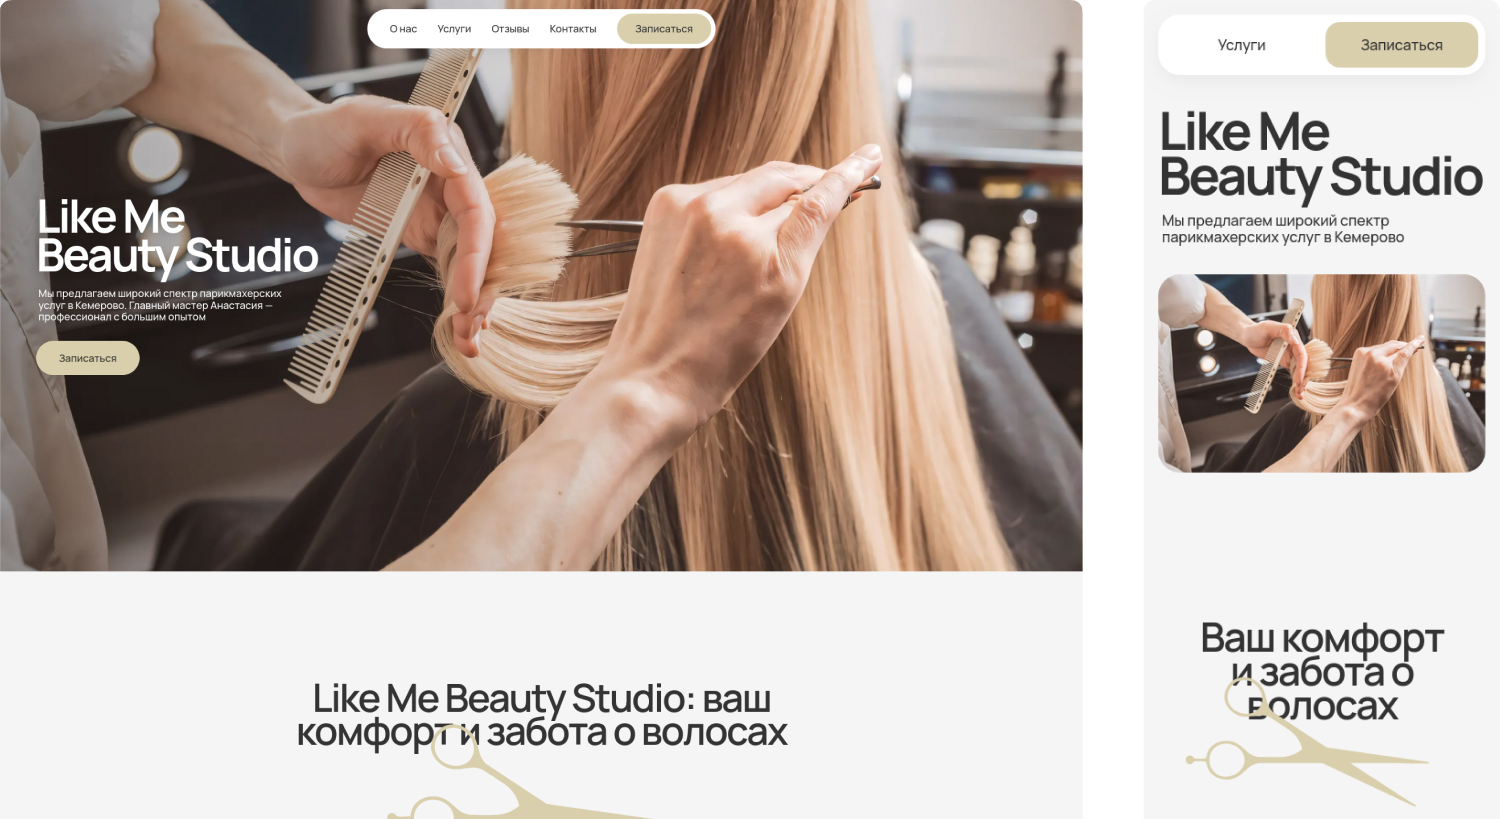
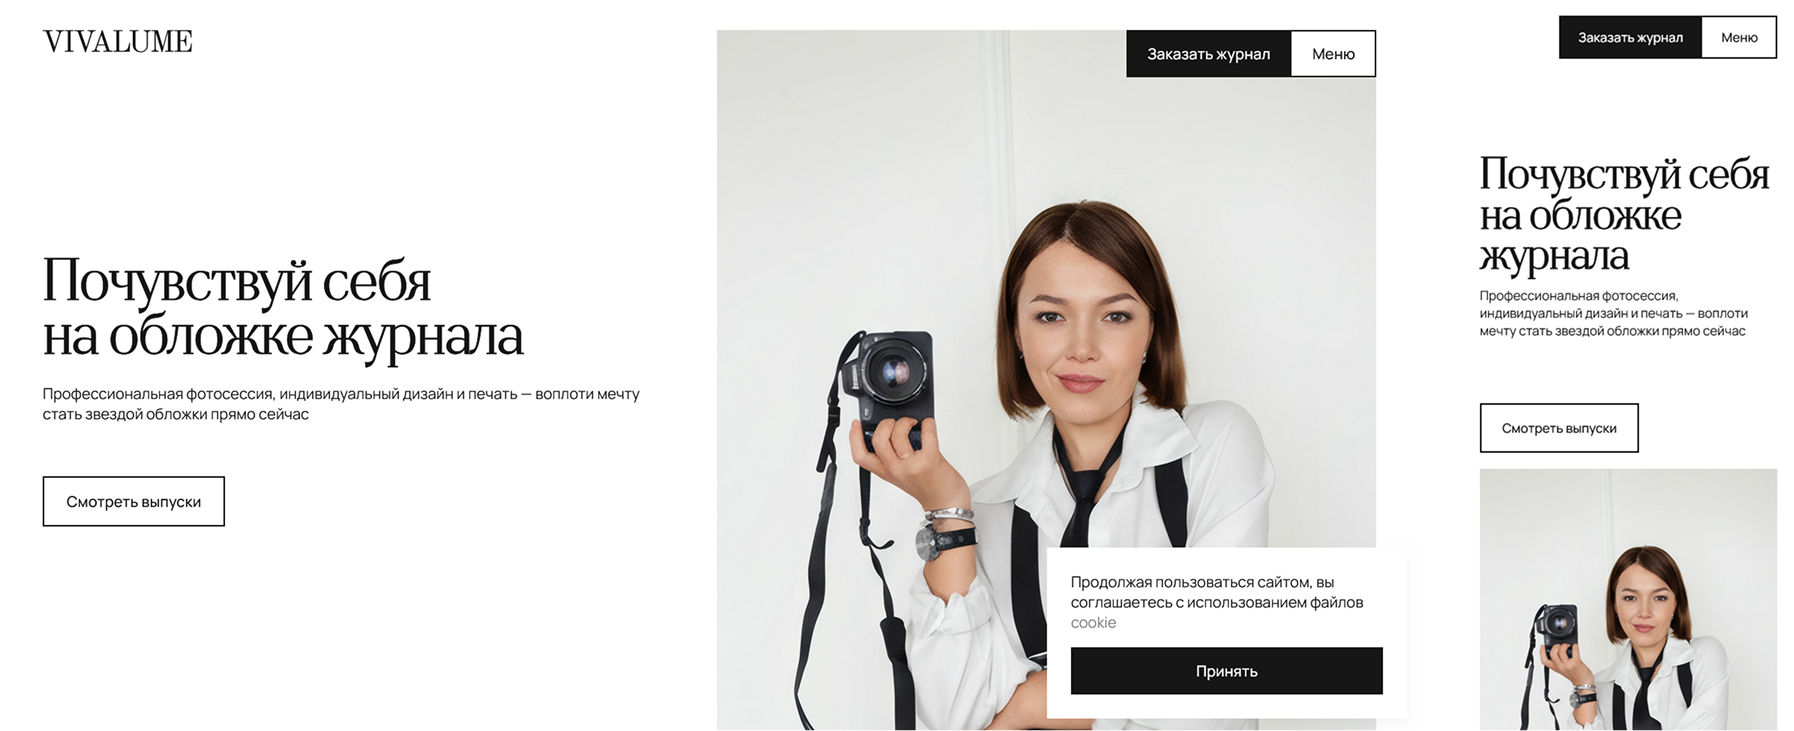
21

diff --git a/templates/index.html b/templates/index.html
@@ -146,15 +146,15 @@
         </div> -->
       </div>
 
-      <div class="cases gsap-4">
-        <div class="case wide" data-cover="{{ url_for('static', filename='img/cases/1/1.png') }}" data-name="Mutek"
-          data-description="Сайт фестиваля digital-креатива в Мексико" data-href="#">
+      <div class="cases gsap-4" id="cases">
+        <div class="case wide" data-cover="{{ url_for('static', filename='img/cases/1/1.png') }}" data-name="VIVALUME"
+          data-description="Сайт для фото-журнала" data-href="#">
         </div>
-        <div class="case left" data-cover="{{ url_for('static', filename='img/cases/2/1.png') }}" data-name="Mutek"
-          data-description="Сайт фестиваля digital-креатива в Мексико" data-href="#">
+        <div class="case left" data-cover="{{ url_for('static', filename='img/cases/2/1.png') }}" data-name="Like Me"
+          data-description="Сайт для салона красоты" data-href="#">
         </div>
-        <div class="case right" data-cover="{{ url_for('static', filename='img/cases/2/1.png') }}" data-name="Mutek"
-          data-description="Сайт фестиваля digital-креатива в Мексико" data-href="#">
+        <div class="case right" data-cover="{{ url_for('static', filename='img/cases/3/1.png') }}" data-name="Бодрит!"
+          data-description="Дизайн приложения для сети кофеен" data-href="#">
         </div>
       </div>
 
@@ -217,11 +217,11 @@
             <div class="res-r">
               <div class="res-rc">
                 <h1 class="r">~300</h1>
-                <p>Посетители<br>в месяц</p>
+                <p>Посетителей<br>в месяц</p>
               </div>
               <div class="res-rc">
                 <h1 class="r">~70</h1>
-                <p>Переходы<br>запись</p>
+                <p>Переходов<br>в запись</p>
               </div>
             </div>
           </div>
@@ -390,8 +390,7 @@
             <div class="hiw-d">
               <h3>Исследование</h3>
               <p class="gd">Проводим анализ вашей компании, изучаем нишу, конкурентов и целевую аудиторию конкурентов и
-                целевую
-                аудиторию аудиторию конкурентов и целевую аудиторию</p>
+                целевую аудиторию аудиторию конкурентов и целевую аудиторию</p>
             </div>
           </div>
           <div class="hiw-card">
@@ -401,10 +400,9 @@
                 fill="var(--bg-gl)" />
             </svg>
             <div class="hiw-d">
-              <h3>Исследование</h3>
-              <p class="gd">Проводим анализ вашей компании, изучаем нишу, конкурентов и целевую аудиторию конкурентов и
-                целевую
-                аудиторию аудиторию конкурентов и целевую аудиторию</p>
+              <h3>Дизайн интерфейса</h3>
+              <p class="gd">Разрабатываем уникальный визуальный стиль, который отражает характер вашего бренда. Создаем
+                интерфейс с фокусом на удобство пользователей</p>
             </div>
           </div>
           <div class="hiw-card">
@@ -414,10 +412,9 @@
                 fill="var(--bg-gl)" />
             </svg>
             <div class="hiw-d">
-              <h3>Исследование</h3>
-              <p class="gd">Проводим анализ вашей компании, изучаем нишу, конкурентов и целевую аудиторию конкурентов и
-                целевую
-                аудиторию аудиторию конкурентов и целевую аудиторию</p>
+              <h3>Разработка</h3>
+              <p class="gd">Превращаем дизайн в полноценный рабочий продукт. Используем современный стек технологий для
+                создания быстрого и надежного решения</p>
             </div>
           </div>
           <div class="hiw-card">
@@ -427,16 +424,15 @@
                 fill="var(--bg-gl)" />
             </svg>
             <div class="hiw-d">
-              <h3>Исследование</h3>
-              <p class="gd">Проводим анализ вашей компании, изучаем нишу, конкурентов и целевую аудиторию конкурентов и
-                целевую
-                аудиторию аудиторию конкурентов и целевую аудиторию</p>
+              <h3>Запуск и сопровождение</h3>
+              <p class="gd">Проводим тестирование, устраняем найденные недочеты и оптимизируем производительность,
+                устраняем найденные недочеты</p>
             </div>
           </div>
         </div>
       </div>
     </div>
-    <div class="main-c2">
+    <div class="main-c2" id="reviews">
       <div class="rev">
         <div class="block-h">
           <h4>Отзывы</h4>
@@ -452,12 +448,12 @@
                   <p>
                     Нужен был сайт для салона красоты — что-то простое, но стильное. Ребята сделали конфетку! Клиенты
                     записываются сами, всё видно в телефоне, а в админ-панели удобно настраивать расписание. Больше
-                    никаких блокнотов и путаницы.<br><br>Цена адекватная, сроки соблюли. Рекомендую!
+                    никаких блокнотов и путаницы. Цена адекватная, сроки соблюли. Рекомендую!
                   </p>
                   <div class="review-header">
                     <img class="avatar" src="{{ url_for('static', filename='img/avatars/1.jpg') }}" alt="Аватар">
                     <div class="review-info">
-                      <h4>Анна Смирнова</h4>
+                      <h4>Анастасия</h4>
                       <p>Директор Like Me</p>
                     </div>
                   </div>
@@ -468,14 +464,14 @@
                 <div class="review-card">
                   <p>
                     Был запрос сделать сайт онлайн-журнал, и именно так вы и сделали)) Еще мне очень понравилось, что
-                    сделали перелистывание страниц прям как у настоящего журнала)) Это прям прикольно))<br><br>
+                    сделали перелистывание страниц прям как у настоящего журнала)) Это прям прикольно))
                     Спасибо вам огромное🙏🏻 Надеюсь на дальнейшее сотрудничество☺️
                   </p>
                   <div class="review-header">
                     <img class="avatar" src="{{ url_for('static', filename='img/avatars/2.jpg') }}" alt="Аватар">
                     <div class="review-info">
-                      <h4>Анна Смирнова</h4>
-                      <p>Директор Like Me</p>
+                      <h4>Алена</h4>
+                      <p>Создатель VIVALUME</p>
                     </div>
                   </div>
                 </div>
@@ -484,36 +480,20 @@
               <div class="swiper-slide">
                 <div class="review-card">
                   <p>
-                    Разрабатывали приложение для пяти точек. Дизайн действительно выделяется среди похожих приложений)
-                    Функционал реализован полностью: заказы, бонусная система, карта с локациями. Конверсия в установку
-                    приложения выше среднего по рынку. Сроки соблюдены. Огромное спасибо)
+                    Разрабатывали приложение для пяти точек. Дизайн действительно выделяется среди похожих приложений.
+                    Функционал реализован полностью: заказы, бонусная система, карта с локациями. Сроки соблюдены.
+                    Огромное спасибо!
                   </p>
                   <div class="review-header">
                     <img class="avatar" src="{{ url_for('static', filename='img/avatars/3.jpg') }}" alt="Аватар">
                     <div class="review-info">
-                      <h4>Анна Смирнова</h4>
-                      <p>Директор Like Me</p>
+                      <h4>Олег</h4>
+                      <p>Владелец сети кофеен</p>
                     </div>
                   </div>
                 </div>
               </div>
 
-              <div class="swiper-slide">
-                <div class="review-card">
-                  <p>
-                    Пользуюсь услугами компании уже больше года. Всегда высокое качество обслуживания, внимательные
-                    менеджеры, которые помогают с выбором. Цены адекватные, а главное — все обещания выполняются в срок.
-                    <br><br>Особенно радует программа лояльности для постоянных клиентов. Рекомендую всем знакомым!
-                  </p>
-                  <div class="review-header">
-                    <img class="avatar" src="{{ url_for('static', filename='img/avatars/1.jpg') }}" alt="Аватар">
-                    <div class="review-info">
-                      <h4>Анна Смирнова</h4>
-                      <p>Директор Like Me</p>
-                    </div>
-                  </div>
-                </div>
-              </div>
             </div>
           </div>
           <div class="swiper-navigation">

diff --git a/static/css/media.css b/static/css/media.css
@@ -200,13 +200,14 @@
     display: flex;
     flex-direction: column;
     gap: var(--g20);
-    padding: var(--g40) 0;
+    padding: var(--g40);
     background: var(--bg-l);
     height: max-content;
     transition: var(--tr);
     border-radius: var(--g5);
     corner-shape: var(--s);
     overflow: hidden;
+    pointer-events: none;
 
     .num path {
       transition: var(--tr-m);
@@ -225,8 +226,8 @@
 
   .num {
     position: initial;
-    height: 2rem;
-    width: auto;
+    height: 1.5rem;
+    width: max-content;
   }
 
   .hiw-d {
@@ -235,6 +236,11 @@
     gap: var(--g10);
     padding-right: var(--g40);
     grid-column: 2 / 4;
+  }
+
+  .review-card {
+    height: 22rem;
+    gap: var(--g20);
   }
 
   .swiper-navigation {
@@ -260,7 +266,7 @@
   }
 
   .footer-c {
-    padding: calc(var(--g40) + var(--g10)) var(--lr);
+    padding: var(--g40) var(--lr);
     gap: var(--g30);
   }
 

diff --git a/static/css/common.css b/static/css/common.css
@@ -60,6 +60,11 @@ header.show {
   }
 }
 
+#cases,
+#reviews {
+  scroll-margin-top: 16vh;
+}
+
 .menu-overlay {
   position: fixed;
   top: 0;
@@ -728,7 +733,7 @@ footer {
   grid-template-columns: repeat(3, 1fr);
   gap: var(--g20);
   color: var(--text-l);
-  padding: var(--g80) var(--lr);
+  padding: var(--g40) var(--lr);
 }
 
 .footer-g {